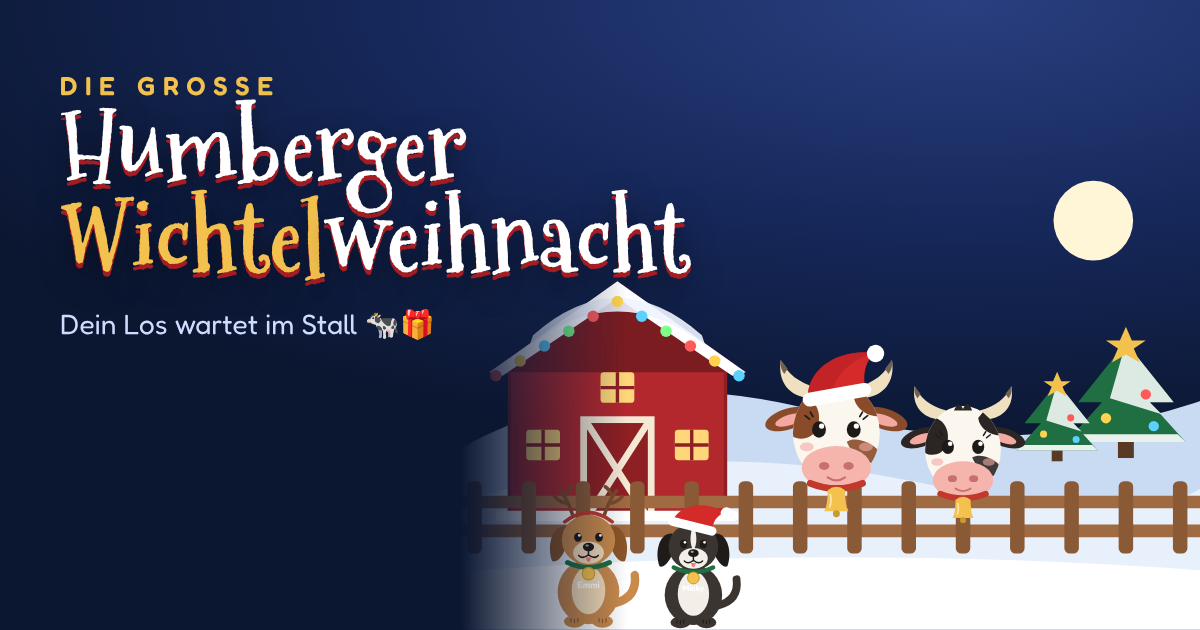
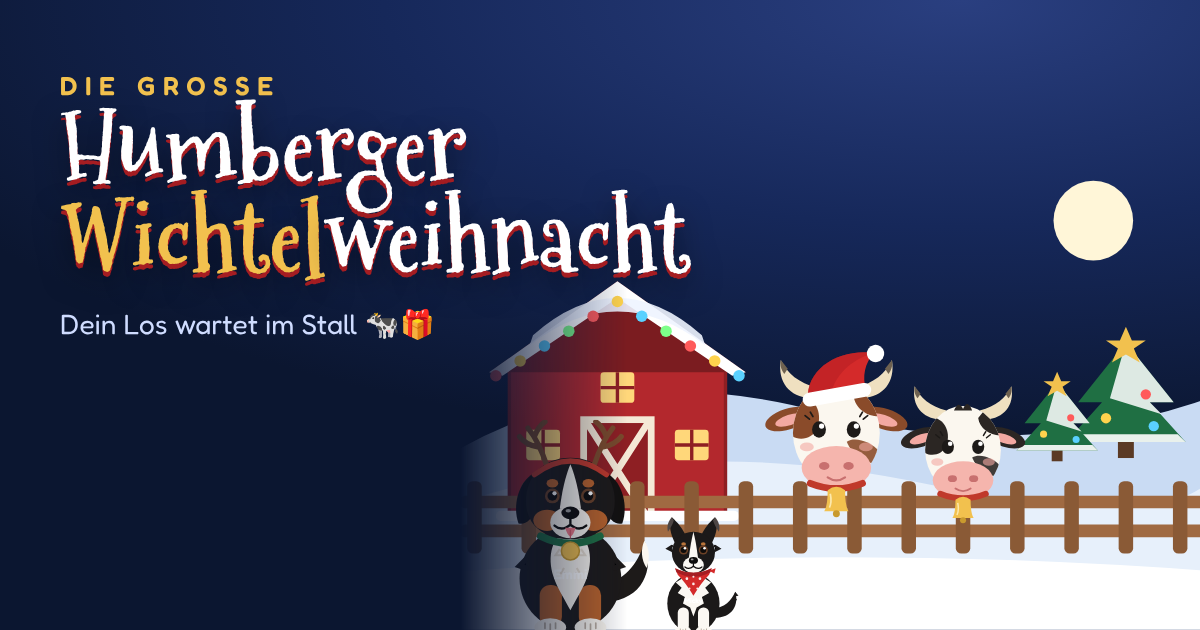
Emmi als Berner Sennenhund, Micky als Mini Aussie neu gezeichnet
Emmi: groß, dreifarbig mit weißer Blesse und rostbraunen Abzeichen.
Micky: klein, schwarz-weiß mit Klappohren, Halskrause und rotem Halstuch.
Größenverhältnis in der Hof-Szene angepasst, Vorschaubild neu erzeugt.

Claude-Session: https://claude.ai/code/session_01X619ACvBDYMyFaZWBQ7r2i

Changed region(s): [[0.4317, 0.6635, 0.6167, 1.0]]

diff --git a/public/js/art.js b/public/js/art.js
@@ -67,56 +67,101 @@ export function cow({ coat = 'fleck', hat = 'santa', name = '', blink = true, cl
   </svg>`;
 }
 
-const DOGS = {
-  emmi: { fur: '#c98a4b', dark: '#8b5527', chest: '#f4dcb8', accessory: 'antlers', tag: 'Emmi' },
-  micky: { fur: '#3b3532', dark: '#1f1b19', chest: '#f3efe8', accessory: 'santa', tag: 'Micky' },
-};
+const TONGUE = '<path class="tongue" d="M75 102 Q80 118 85 102 Z" fill="#f07a86"/><path d="M80 104 v8" stroke="#d65a68" stroke-width="1.2"/>';
+
+function dogEyes(y, lx, rx) {
+  // Braune Iris, damit die Augen auf schwarzem Fell sichtbar sind
+  return `<g class="eyes blink">
+      <circle cx="${lx}" cy="${y}" r="7" fill="#6b4126"/><circle cx="${rx}" cy="${y}" r="7" fill="#6b4126"/>
+      <circle cx="${lx}" cy="${y}" r="4.6" fill="#0e0c0b"/><circle cx="${rx}" cy="${y}" r="4.6" fill="#0e0c0b"/>
+      <circle cx="${lx + 2}" cy="${y - 2.5}" r="2" fill="#fff"/><circle cx="${rx + 2}" cy="${y - 2.5}" r="2" fill="#fff"/>
+    </g>`;
+}
+
+const ANTLERS = `<g class="antlers" stroke="#7a4a2c" stroke-width="5" stroke-linecap="round" fill="none">
+    <path d="M58 44 Q50 20 40 8 M50 26 Q38 24 32 16 M46 16 Q50 6 56 2"/>
+    <path d="M102 44 Q110 20 120 8 M110 26 Q122 24 128 16 M114 16 Q110 6 104 2"/>
+    <path d="M46 52 Q80 26 114 52" stroke="#c0392b" stroke-width="5"/>
+  </g>`;
+const BANDANA = `<g class="bandana">
+    <path d="M52 100 Q80 114 108 100 L104 110 Q92 122 80 142 Q68 122 56 110 Z" fill="#d42a2a"/>
+    <path d="M52 100 Q80 114 108 100 L106 106 Q80 120 54 106 Z" fill="#a51d22"/>
+    <g fill="#fff" opacity=".9"><circle cx="70" cy="116" r="2"/><circle cx="90" cy="116" r="2"/><circle cx="80" cy="124" r="2"/><circle cx="74" cy="131" r="1.6"/><circle cx="86" cy="131" r="1.6"/><circle cx="80" cy="113" r="1.6"/></g>
+    <path d="M104 104 l10 -4 -2 8 Z" fill="#d42a2a"/>
+  </g>`;
+const COLLAR = (y) => `<path d="M52 ${y} Q80 ${y + 14} 108 ${y}" stroke="#1f6f43" stroke-width="7" fill="none" stroke-linecap="round"/>
+    <circle cx="80" cy="${y + 14}" r="8.5" fill="#f2c14e" stroke="#c99a2e" stroke-width="1.5"/>`;
+
+/** Emmi – Berner Sennenhund: groß, dreifarbig (schwarz, weiß, rostbraun) */
+function emmi() {
+  const B = '#1d1a19', W = '#fbf7f0', R = '#b8622b';
+  return `
+    <path class="tail" d="M114 172 C148 170 160 142 150 114 C146 132 134 150 112 156 Z" fill="${B}"/>
+    <path d="M150 114 C155 122 155 132 152 140 C147 133 146 122 150 114 Z" fill="${W}"/>
+    <ellipse cx="80" cy="150" rx="48" ry="49" fill="${B}"/>
+    <path d="M38 132 l-6 6 6 2 M122 132 l6 6 -6 2" stroke="${B}" stroke-width="5" stroke-linecap="round"/>
+    <rect x="51" y="156" width="21" height="40" rx="10" fill="${R}"/>
+    <rect x="88" y="156" width="21" height="40" rx="10" fill="${R}"/>
+    <path d="M80 104 C62 108 58 130 64 148 C68 160 75 170 80 180 C85 170 92 160 96 148 C102 130 98 108 80 104 Z" fill="${W}"/>
+    <path d="M70 122 l-4 6 6 0 M90 122 l4 6 -6 0 M74 140 l-3 5 5 0 M86 140 l3 5 -5 0" stroke="#e7ddcf" stroke-width="2" fill="none"/>
+    <ellipse cx="61" cy="196" rx="15" ry="8.5" fill="${W}"/>
+    <ellipse cx="99" cy="196" rx="15" ry="8.5" fill="${W}"/>
+    <path d="M56 197 v-5 M61 198 v-5 M66 197 v-5 M94 197 v-5 M99 198 v-5 M104 197 v-5" stroke="#b9ada0" stroke-width="1.6" stroke-linecap="round"/>
+    <path class="ear-l" d="M48 50 C34 54 24 78 31 98 C40 101 51 86 57 64 Z" fill="#131110"/>
+    <path class="ear-r" d="M112 50 C126 54 136 78 129 98 C120 101 109 86 103 64 Z" fill="#131110"/>
+    <path d="M80 36 C106 36 122 54 122 77 C122 100 104 113 80 113 C56 113 38 100 38 77 C38 54 54 36 80 36 Z" fill="${B}"/>
+    <ellipse cx="58" cy="95" rx="13" ry="10" fill="${R}"/>
+    <ellipse cx="102" cy="95" rx="13" ry="10" fill="${R}"/>
+    <path d="M80 42 C75 54 72 68 70 84 L90 84 C88 68 85 54 80 42 Z" fill="${W}"/>
+    <ellipse cx="80" cy="97" rx="19" ry="15" fill="${W}"/>
+    <ellipse cx="63" cy="60" rx="5.5" ry="4" fill="${R}"/>
+    <ellipse cx="97" cy="60" rx="5.5" ry="4" fill="${R}"/>
+    ${dogEyes(72, 63, 97)}
+    <ellipse cx="80" cy="88" rx="8.5" ry="6" fill="#0e0c0b"/>
+    <ellipse cx="78" cy="86" rx="2.6" ry="1.6" fill="#fff" opacity=".6"/>
+    <path d="M80 94 v5 M80 99 Q72 106 65 100 M80 99 Q88 106 95 100" stroke="#0e0c0b" stroke-width="2.2" fill="none" stroke-linecap="round"/>
+    ${TONGUE}
+    ${ANTLERS}
+    ${COLLAR(110)}`;
+}
+
+/** Micky – Mini Australian Shepherd: klein, schwarz-weiß, Klappohren, Halskrause */
+function micky() {
+  const B = '#1b1919', W = '#fbf8f3', C = '#b8743a';
+  return `
+    <path class="tail" d="M112 176 C140 176 150 156 144 136 C138 150 128 160 110 162 Z" fill="${B}"/>
+    <path d="M144 136 l5 6 -6 1 4 6 -6 0" fill="${B}"/>
+    <ellipse cx="80" cy="154" rx="40" ry="45" fill="${B}"/>
+    <rect x="56" y="160" width="17" height="36" rx="8" fill="${W}"/>
+    <rect x="87" y="160" width="17" height="36" rx="8" fill="${W}"/>
+    <path d="M56 104 L62 116 L53 122 L62 130 L56 138 L67 144 L64 154 L75 160 L80 174 L85 160 L96 154 L93 144 L104 138 L98 130 L107 122 L98 116 L104 104 Q80 96 56 104 Z" fill="${W}"/>
+    <ellipse cx="64" cy="196" rx="12.5" ry="7.5" fill="${W}"/>
+    <ellipse cx="96" cy="196" rx="12.5" ry="7.5" fill="${W}"/>
+    <path d="M60 197 v-4 M64 198 v-4 M68 197 v-4 M92 197 v-4 M96 198 v-4 M100 197 v-4" stroke="#b9ada0" stroke-width="1.5" stroke-linecap="round"/>
+    <g class="ear-l"><path d="M52 62 C44 46 42 34 47 22 C56 30 64 40 68 50 Z" fill="${B}"/>
+      <path d="M47 22 C41 28 39 36 41 44 C45 39 48 33 50 27 Z" fill="#4d4645"/></g>
+    <g class="ear-r"><path d="M108 62 C116 46 118 34 113 22 C104 30 96 40 92 50 Z" fill="${B}"/>
+      <path d="M113 22 C119 28 121 36 119 44 C115 39 112 33 110 27 Z" fill="#4d4645"/></g>
+    <path d="M47 66 l-6 4 6 3 M113 66 l6 4 -6 3" stroke="${B}" stroke-width="4" stroke-linecap="round"/>
+    <ellipse cx="80" cy="76" rx="33" ry="32" fill="${B}"/>
+    <path d="M80 44 C77 56 75 68 73 84 L87 84 C85 68 83 56 80 44 Z" fill="${W}"/>
+    <ellipse cx="80" cy="95" rx="16" ry="12.5" fill="${W}"/>
+    <ellipse cx="65" cy="63" rx="3.6" ry="2.6" fill="${C}"/>
+    <ellipse cx="95" cy="63" rx="3.6" ry="2.6" fill="${C}"/>
+    ${dogEyes(72, 65, 95)}
+    <ellipse cx="80" cy="88" rx="7" ry="5.2" fill="#0e0c0b"/>
+    <ellipse cx="78" cy="86.5" rx="2.2" ry="1.4" fill="#fff" opacity=".6"/>
+    <path d="M80 93 v4 M80 97 Q73 103 67 98 M80 97 Q87 103 93 98" stroke="#0e0c0b" stroke-width="2" fill="none" stroke-linecap="round"/>
+    ${BANDANA}`;
+}
 
 /** Sitzender Hund. which: 'emmi' | 'micky' */
 export function dog(which = 'emmi', { cls = '' } = {}) {
-  const d = DOGS[which];
-  const acc =
-    d.accessory === 'antlers'
-      ? `<g class="antlers" stroke="#7a4a2c" stroke-width="5" stroke-linecap="round" fill="none">
-          <path d="M58 44 Q50 20 40 8 M50 26 Q38 24 32 16 M46 16 Q50 6 56 2"/>
-          <path d="M102 44 Q110 20 120 8 M110 26 Q122 24 128 16 M114 16 Q110 6 104 2"/>
-          <path d="M46 52 Q80 26 114 52" stroke="#c0392b" stroke-width="5"/>
-        </g>`
-      : `<g class="hat" transform="rotate(14 80 40)">
-          <path d="M48 48 C54 16 92 4 124 14 C112 22 108 34 112 48 Z" fill="#d42a2a"/>
-          <rect x="42" y="40" width="76" height="14" rx="7" fill="#fff"/>
-          <circle cx="126" cy="15" r="9" fill="#fff"/>
-        </g>`;
+  const label = which === 'emmi' ? 'Emmi' : 'Micky';
+  const tagY = which === 'emmi' ? 150 : 154;
   return `<svg class="dog dog-${which} ${cls}" viewBox="0 0 160 205" aria-hidden="true">
-    <!-- Schwanz -->
-    <path class="tail" d="M118 168 Q150 160 146 128" stroke="${d.fur}" stroke-width="12" fill="none" stroke-linecap="round"/>
-    <!-- Körper -->
-    <ellipse cx="80" cy="152" rx="44" ry="46" fill="${d.fur}"/>
-    <ellipse cx="80" cy="150" rx="24" ry="34" fill="${d.chest}"/>
-    <ellipse cx="60" cy="194" rx="15" ry="9" fill="${d.fur}"/>
-    <ellipse cx="100" cy="194" rx="15" ry="9" fill="${d.fur}"/>
-    <path d="M55 195 v-5 M60 196 v-5 M65 195 v-5 M95 195 v-5 M100 196 v-5 M105 195 v-5" stroke="${d.dark}" stroke-width="1.6" stroke-linecap="round"/>
-    <!-- Ohren -->
-    <path class="ear-l" d="M48 58 C28 56 20 86 28 108 C36 112 46 98 52 78 Z" fill="${d.dark}"/>
-    <path class="ear-r" d="M112 58 C132 56 140 86 132 108 C124 112 114 98 108 78 Z" fill="${d.dark}"/>
-    <!-- Kopf -->
-    <ellipse cx="80" cy="78" rx="38" ry="36" fill="${d.fur}"/>
-    <ellipse cx="80" cy="96" rx="22" ry="16" fill="${d.chest}"/>
-    ${which === 'micky' ? `<path d="M80 44 C74 60 74 74 80 84 C86 74 86 60 80 44 Z" fill="${d.chest}"/>` : ''}
-    <g class="eyes blink">
-      <ellipse cx="65" cy="74" rx="5.5" ry="6.5" fill="#1d1a18"/>
-      <ellipse cx="95" cy="74" rx="5.5" ry="6.5" fill="#1d1a18"/>
-      <circle cx="67" cy="71.5" r="2" fill="#fff"/><circle cx="97" cy="71.5" r="2" fill="#fff"/>
-    </g>
-    <ellipse cx="80" cy="88" rx="8" ry="6" fill="#1d1a18"/>
-    <ellipse cx="78" cy="86" rx="2.5" ry="1.6" fill="#fff" opacity=".6"/>
-    <path d="M80 94 v5 M80 99 Q72 106 66 100 M80 99 Q88 106 94 100" stroke="#1d1a18" stroke-width="2.2" fill="none" stroke-linecap="round"/>
-    <path class="tongue" d="M76 103 Q80 116 84 103 Z" fill="#f07a86"/>
-    ${acc}
-    <!-- Halsband + Marke -->
-    <path d="M50 110 Q80 124 110 110" stroke="#1f6f43" stroke-width="7" fill="none" stroke-linecap="round"/>
-    <circle cx="80" cy="126" r="9" fill="#f2c14e" stroke="#c99a2e" stroke-width="1.5"/>
-    <text x="80" y="146" text-anchor="middle" class="art-label dog-name">${d.tag}</text>
+    ${which === 'emmi' ? emmi() : micky()}
+    <text x="80" y="${tagY}" text-anchor="middle" class="art-label dog-name"${which === 'micky' ? ' style="font-size:11px"' : ''}>${label}</text>
   </svg>`;
 }
 
@@ -176,8 +221,8 @@ export function farmScene({ cows = true, dogs = true } = {}) {
     ${cows ? `<g class="tap" data-sound="moo" data-say="Muuuh! 🎄"><svg x="160" y="112" width="96" height="104">${cow({ coat: 'fleck', hat: 'santa' })}</svg></g>
     <g class="tap" data-sound="moo" data-say="Muh-ry Christmas!"><svg x="236" y="128" width="84" height="90">${cow({ coat: 'schwarz', hat: 'none' })}</svg></g>` : ''}
     <path d="M0 238 Q210 222 420 238 V270 H0 Z" fill="#fff"/>
-    ${dogs ? `<g class="tap" data-sound="bark" data-say="Wuff! Ich bin Emmi 🦌"><svg x="40" y="190" width="62" height="80">${dog('emmi')}</svg></g>
-    <g class="tap" data-sound="bark" data-say="Wuff wuff! Micky hier 🎅"><svg x="100" y="196" width="58" height="74">${dog('micky')}</svg></g>` : ''}
+    ${dogs ? `<g class="tap" data-sound="bark" data-say="Wuff! Emmi, Berner Sennenhund 🦌"><svg x="14" y="154" width="94" height="120">${dog('emmi')}</svg></g>
+    <g class="tap" data-sound="bark" data-say="Wuff! Micky, klein aber oho 🐑"><svg x="100" y="200" width="58" height="74">${dog('micky')}</svg></g>` : ''}
   </svg>`;
 }
 

diff --git a/public/css/style.css b/public/css/style.css
@@ -115,7 +115,7 @@ textarea { min-height: 110px; resize: vertical; line-height: 1.4; }
 
 /* ---------- Tiere */
 .art-label { font-family: 'Fredoka'; font-weight: 600; font-size: 13px; fill: #fff; }
-.dog-name { font-size: 14px; font-weight: 700; fill: #5a3a1e; }
+.dog-name { font-size: 13px; font-weight: 700; fill: #5a3a1e; paint-order: stroke; stroke: #fbf7f0; stroke-width: 2.5px; }
 .churn-text { font-family: 'Fredoka'; font-weight: 700; font-size: 15px; fill: var(--green); letter-spacing: .08em; }
 .churn-sub { font-family: 'Fredoka'; font-size: 10px; fill: var(--muted); }
 .eyes.blink { transform-box: fill-box; transform-origin: center; animation: blink 5.5s infinite; }
@@ -204,8 +204,10 @@ textarea { min-height: 110px; resize: vertical; line-height: 1.4; }
 .wishes { white-space: pre-wrap; background: #fff; border-radius: 16px; padding: 14px; border: 2px dashed #e3d6bd; font-size: 16px; line-height: 1.45; }
 .note { background: #fff6d8; border-radius: 14px; padding: 12px 14px; border-left: 5px solid var(--gold); white-space: pre-wrap; }
 
-.dog-duo { display: flex; justify-content: center; gap: 6px; margin: -4px 0 4px; }
-.dog-duo svg { width: 92px; height: auto; }
+.dog-duo { display: flex; justify-content: center; align-items: flex-end; gap: 4px; margin: -4px 0 4px; }
+.dog-duo svg { height: auto; }
+.dog-duo .dog-emmi { width: 124px; }
+.dog-duo .dog-micky { width: 78px; }
 .cow-mini { width: 110px; margin: -78px auto 4px; filter: drop-shadow(0 10px 12px rgba(0, 0, 0, .3)); }
 .cow-mini svg { display: block; width: 100%; height: auto; }
 .shake { animation: shake .5s; }
@@ -272,7 +274,8 @@ textarea { min-height: 110px; resize: vertical; line-height: 1.4; }
 
 /* Gate (kein Zutritt) */
 .gate { text-align: center; }
-.gate .dog-duo svg { width: 110px; }
+.gate .dog-duo .dog-emmi { width: 140px; }
+.gate .dog-duo .dog-micky { width: 88px; }
 
 @media (min-width: 700px) {
   .people { grid-template-columns: 1fr 1fr; }

diff --git a/public/sw.js b/public/sw.js
@@ -1,5 +1,5 @@
 // Service Worker: App-Shell offline, API immer frisch.
-const VERSION = 'wichtel-v2';
+const VERSION = 'wichtel-v3';
 const SHELL = [
   '/',
   '/shell/wichtel',

diff --git a/README.md b/README.md
@@ -64,7 +64,7 @@ Icons und das Vorschaubild für WhatsApp (`public/img/*.png`) werden aus den SVG
 npm i -D playwright && node scripts/build-icons.mjs
 ```
 
-Die Farben von Emmi und Micky stehen oben in `public/js/art.js` (`DOGS`). Dort lassen sie sich an die echten Hunde anpassen. Nach Änderungen an Dateien in `public/` sollte in `public/sw.js` die `VERSION` hochgezählt werden, damit installierte Apps das Update laden.
+Emmi (Berner Sennenhund) und Micky (Mini Australian Shepherd) sind in `public/js/art.js` gezeichnet (Funktionen `emmi()` und `micky()`). Nach Änderungen an Dateien in `public/` sollte in `public/sw.js` die `VERSION` hochgezählt werden, damit installierte Apps das Update laden.
 
 ## Sicherheit
 
